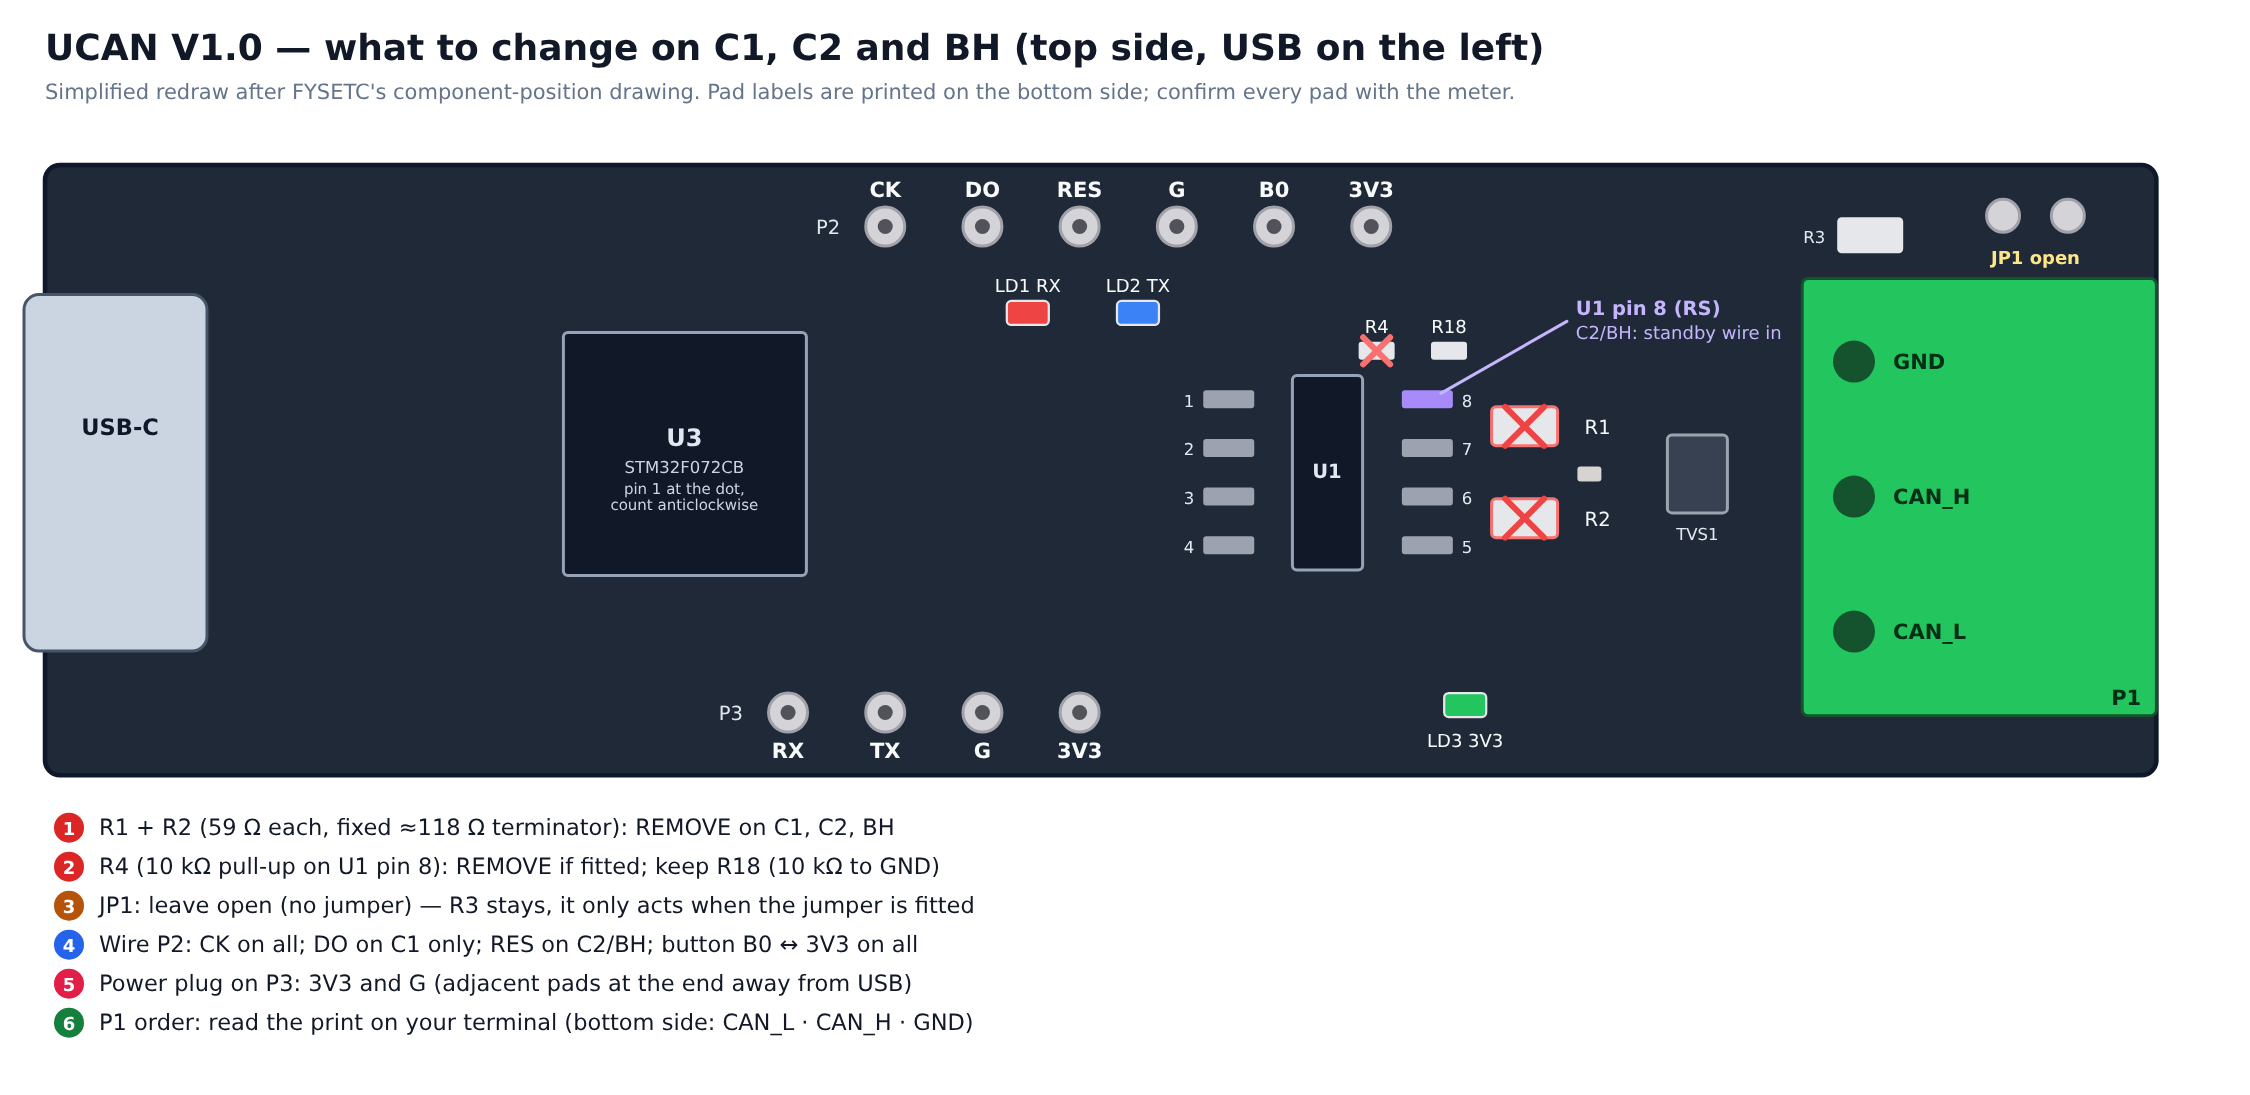
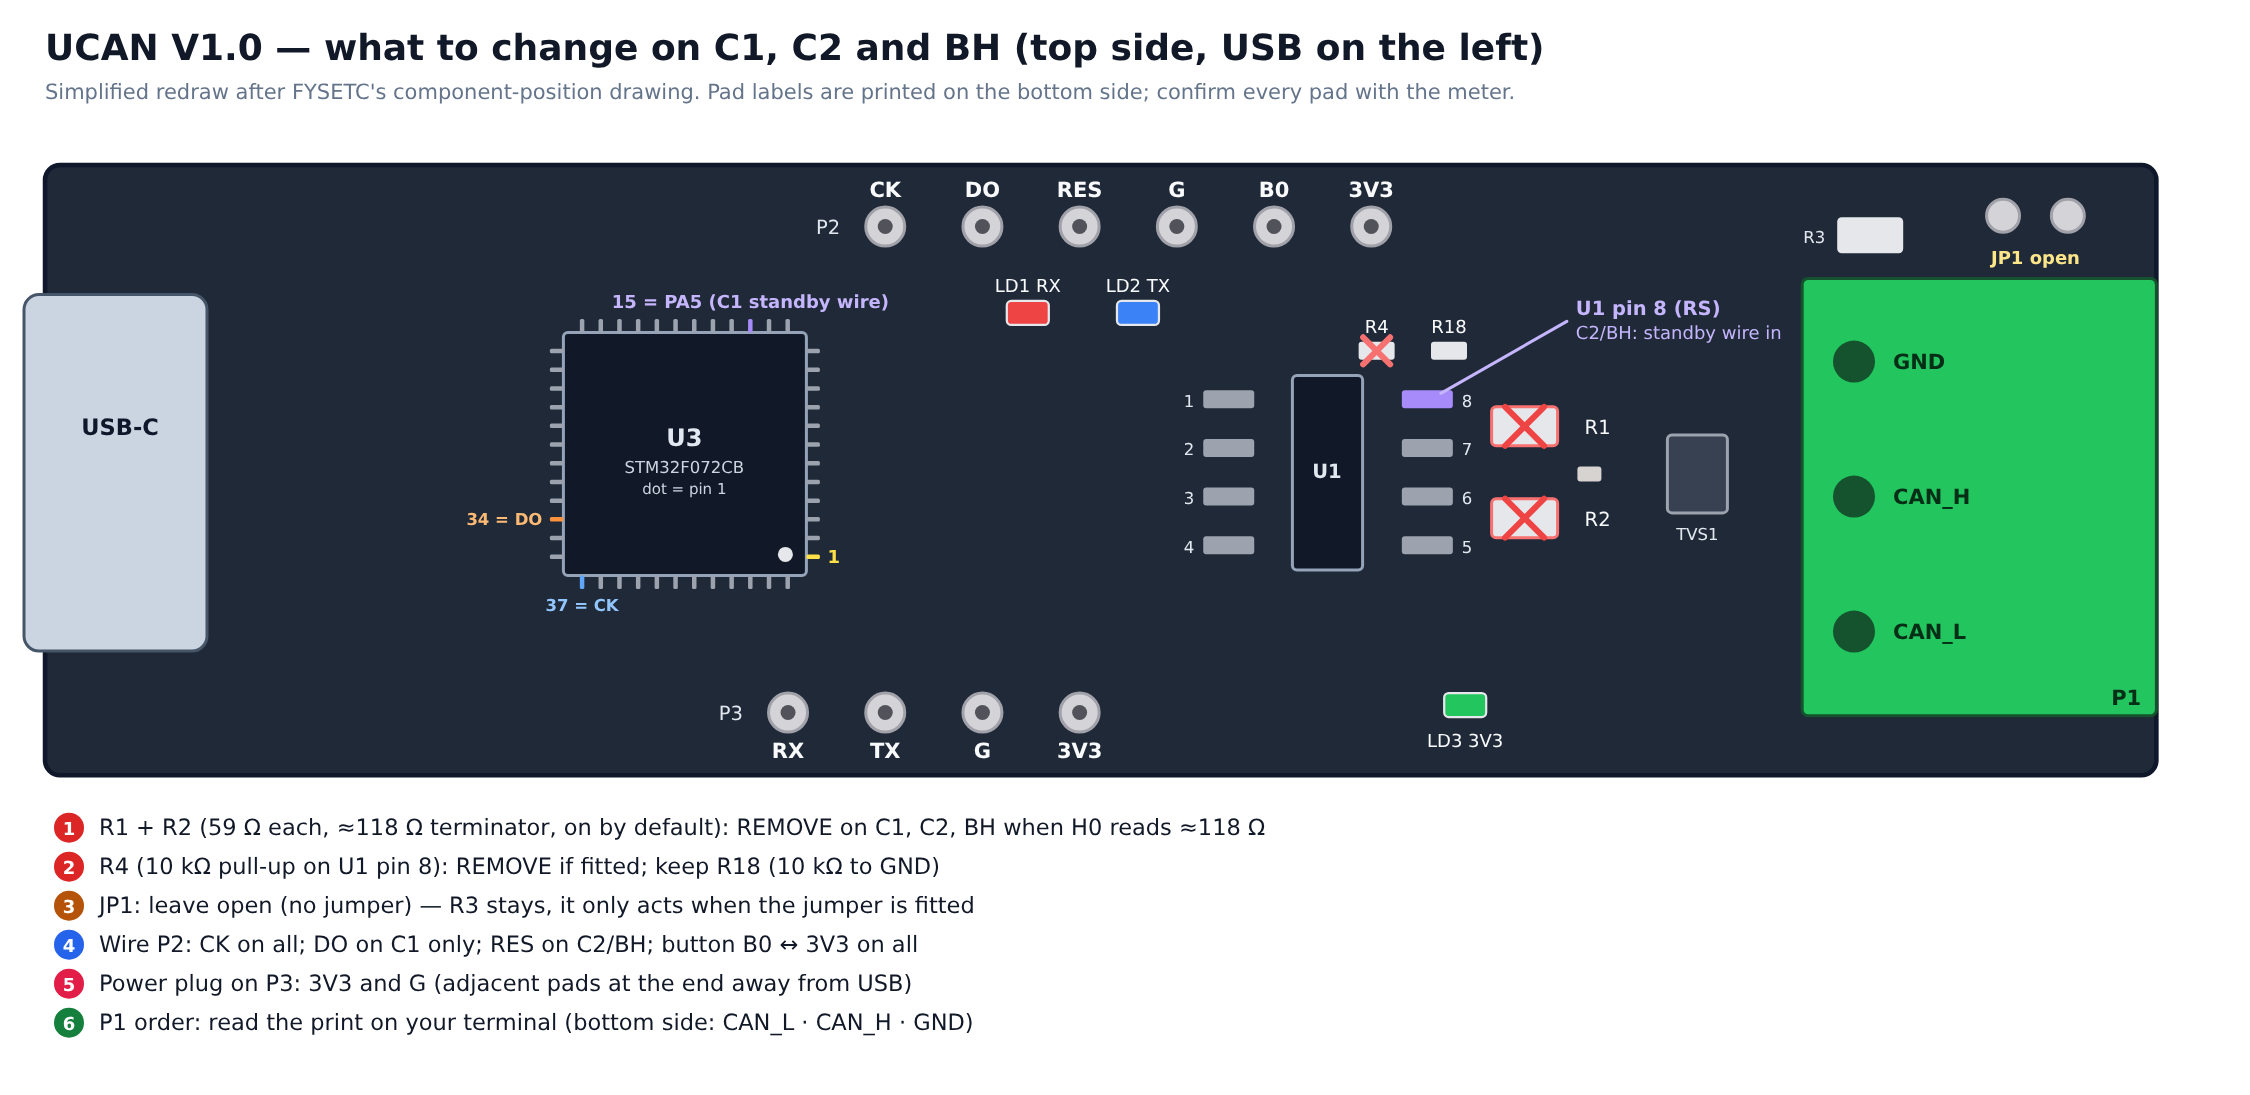
Plan v4.8: align with FYSETC's UCAN repository
Quote the FYSETC README (termination on by default, candleLight V1 pin
assignment, header roles), add an H0 decision rule for the termination
header, and locate C1's pin 15 (PA5) from the chip's pin-1 dot in
FYSETC's render, with continuity checks to confirm it.

Claude-Session: https://claude.ai/code/session_01AsqY26JJaNYiwGumCMsUSo

diff --git a/docs/images/src/make_diagrams.py b/docs/images/src/make_diagrams.py
@@ -277,8 +277,23 @@ def board_prep():
     s.rect(cx, cy, 225 * k, 225 * k, fill="#111827", stroke="#94a3b8", sw=2, rx=3)
     s.text(cx + 112 * k, cy + 105 * k, "U3", 16, "#e2e8f0", anchor="middle", weight="bold")
     s.text(cx + 112 * k, cy + 130 * k, "STM32F072CB", 11, "#cbd5e1", anchor="middle")
-    s.text(cx + 112 * k, cy + 150 * k, "pin 1 at the dot,", 10, "#cbd5e1", anchor="middle")
-    s.text(cx + 112 * k, cy + 164 * k, "count anticlockwise", 10, "#cbd5e1", anchor="middle")
+    # LQFP48 pins: 12 per side, pin 1 next to the dot in the bottom-right corner (FYSETC render)
+    side = 225 * k
+    step = side / 13
+    for i in range(12):
+        t = (i + 1) * step
+        col_top = "#a78bfa" if i == 2 else "#9ca3af"          # top side right->left = pins 13..24
+        s.rect(cx + side - t - 1.5, cy - 9, 3, 9, fill=col_top, rx=1)
+        s.rect(cx + t - 1.5, cy + side, 3, 9, fill="#60a5fa" if i == 0 else "#9ca3af", rx=1)
+        s.rect(cx - 9, cy + t - 1.5, 9, 3, fill="#fb923c" if i == 9 else "#9ca3af", rx=1)
+        s.rect(cx + side, cy + side - t - 1.5, 9, 3, fill="#fde047" if i == 0 else "#9ca3af", rx=1)
+    s.circle(cx + side - 14, cy + side - 14, 5, "#e5e7eb")
+    s.text(cx + side + 14, cy + side - 8, "1", 12, "#fde047", weight="bold")
+    p15x = cx + side - 3 * step
+    s.text(p15x, cy - 16, "15 = PA5 (C1 standby wire)", 12, "#c4b5fd", anchor="middle", weight="bold")
+    s.text(cx - 14, cy + 10 * step + 4, "34 = DO", 11, "#fdba74", anchor="end", weight="bold")
+    s.text(cx + step, cy + side + 24, "37 = CK", 11, "#93c5fd", anchor="middle", weight="bold")
+    s.text(cx + 112 * k, cy + 150 * k, "dot = pin 1", 10, "#cbd5e1", anchor="middle")
     # P2 (top row) and P3 (bottom row)
     for i, lab in enumerate(["CK", "DO", "RES", "G", "B0", "3V3"]):
         x, y = P(803 + i * 90, 482)
@@ -351,7 +366,7 @@ def board_prep():
     # callouts (below the board)
     by = y1 + 40
     notes = [
-        ("1", "R1 + R2 (59 Ω each, fixed ≈118 Ω terminator): REMOVE on C1, C2, BH", C["remove"]),
+        ("1", "R1 + R2 (59 Ω each, ≈118 Ω terminator, on by default): REMOVE on C1, C2, BH when H0 reads ≈118 Ω", C["remove"]),
         ("2", "R4 (10 kΩ pull-up on U1 pin 8): REMOVE if fitted; keep R18 (10 kΩ to GND)", C["remove"]),
         ("3", "JP1: leave open (no jumper) — R3 stays, it only acts when the jumper is fitted", "#b45309"),
         ("4", "Wire P2: CK on all; DO on C1 only; RES on C2/BH; button B0 ↔ 3V3 on all", C["serial"]),

diff --git a/docs/BACCAble_Giulia_Q4_Full_Plan.md b/docs/BACCAble_Giulia_Q4_Full_Plan.md
@@ -1,4 +1,4 @@
-# DIY BACCAble — Full Plan, Build Steps and Firmware (v4.7)
+# DIY BACCAble — Full Plan, Build Steps and Firmware (v4.8)
 
 **Mission:** build our own BACCAble from loose boards instead of buying the author's ready-made device, and make it **behave the same as the author's device in every way except the WS281x LED strip** (not built, not wired, left disabled).
 **Build:** the **full BACCAble — three UCAN boards, C1 + C2 + BH**, one per CAN bus, exactly like the three chips on the author's PCB. This is **not** the two-board (C1 + BH) minimalist/test setup: every board, wire and step below is for three boards, and wherever a repo picture shows only one or two UCANs it is used only as a pad/label/mounting reference.
@@ -63,7 +63,23 @@ The author's own OBD plug pinout (what his PCB uses on each pin — we only use 
 *Source: `hardware/newBaccableDedicatedPcb/pinout.png` (also manual page 5). CMD1–3, STS1–3 and LED CTRL are the author's extra I/O (§10); not used here.*
 
 ### 2.2 The UCAN board, part by part (board maker's schematic)
-The repo only shows the UCAN in pictures, so this map comes from the board maker's own drawings: FYSETC `UCAN V1.0 SCH.pdf` and `UCAN V1.0 Component Position.pdf` (https://github.com/FYSETC/UCAN/tree/main/Hardware). It agrees with the repo's pictures and the firmware's pin use. [FYSETC][Repo]
+**Our board is the one the author uses:** the FYSETC UCAN sold at https://www.fysetc.com/products/fysetc-ucan-board, documented in FYSETC's open-source repository https://github.com/FYSETC/UCAN. That repository holds only:
+- the README, with a top-view render;
+- `Hardware/UCAN V1.0 SCH.pdf` and `Hardware/UCAN V1.0 Component Position.pdf`;
+- a STEP model.
+
+What its README says, and how it fits the build:
+
+| FYSETC README says | Meaning for us |
+|---|---|
+| STM32F072, candleLight firmware | same chip family the BACCAble README asks for |
+| "Compatible with candleLight V1 hardware pin assignment" | LEDs on PA0/PA1 and CAN on PB8/PB9, as the BACCAble firmware expects; the BACCAble README lists candleLight among the compatible boards |
+| "3-pin screw plug terminal: CANH, CANL, GND" | the order of the README's text only: the schematic gives P1 pin 1 = CAN_L, pin 2 = CAN_H, pin 3 = GND, and the silkscreen in the repo's photo reads CAN_L · CAN_H · GND. **Go by the print on your board** |
+| "Headers to enter bootloader … and SWD interface" | the P2 row (B0, 3V3, CK = SWCLK, DO = SWDIO, RES, G) |
+| "Headers to CAN interface before transceiver" | the P3 row (RX, TX, G, 3V3): not used |
+| "Headers to enable/disable termination, **On-board termination resistors (2 x 59R) are used by default**" | **every UCAN arrives terminated**, which is what §6 removes |
+
+The board details below come from FYSETC's schematic and component-position drawing. They agree with the repo's pictures and the firmware's pin use. [FYSETC][Repo]
 
 | Ref | What it is | What we do with it |
 |---|---|---|
@@ -83,7 +99,16 @@ The repo only shows the UCAN in pictures, so this map comes from the board maker
 
 The C1 / C2 / BH firmware never touches **PC13** (no GPIOC code in the fork), so on C2 and BH the transceiver's pin 8 is free for the author's standby line. [Repo]
 
-**Identify every pad with the meter before soldering** (board unpowered, continuity/beep mode). Don't rely only on silkscreen read from photos. On the LQFP48 chip, pin 1 is at the dot; count anticlockwise, 12 pins per side. On U1 (8 pins), pin 1 is at the dot or chamfer; pin 8 is beside pin 1 on the other row, on the side facing the green terminal, closest to R4/R18.
+**Identify every pad with the meter before soldering** (board unpowered, continuity/beep mode). Don't rely only on silkscreen read from photos. On the LQFP48 chip, pin 1 is at the dot; count anticlockwise, 12 pins per side.
+
+**Where the dot is:** in FYSETC's README render (USB on the left, terminal on the right), the dot is in the chip's **bottom-right** corner. [FYSETC][Infer]
+- Pin 1 is the lowest pin of the chip's right-hand side.
+- Pins 1–12 run up the right side.
+- Pins 13–24 run right to left along the top side.
+- Pins 25–36 run down the left side.
+- Pins 37–48 run left to right along the bottom side.
+
+So **PA5 = pin 15 is the 3rd pin from the right on the top side** (PA4 = pin 14 is the 2nd). **Confirm the orientation before soldering:** pin 37 (bottom side, leftmost) must beep to **CK**, and pin 34 (left side, 3rd from the bottom) to **DO**. On U1 (8 pins), pin 1 is at the dot or chamfer; pin 8 is beside pin 1 on the other row, on the side facing the green terminal, closest to R4/R18.
 
 | Pad | Must beep to |
 |---|---|
@@ -340,7 +365,7 @@ Rules for every option: **never put 12 V on a UCAN**; one common ground; C2/BH s
 ### 5.2 Standby line (author's PA5) — no firmware change needed
 - The firmware **already drives PA5 exactly as the author's**: push-pull output, **low = slave transceivers active** (set at start-up and on every wake), **high = standby** (set when C1 goes to sleep). Our flag only moved the reset line; PA5 is untouched. [Repo: `lowConsume.c`]
 - On the author's PCB PA5 runs to the **RS pin (pin 8)** of the C2 and BH transceivers (schematic sheets 3/4, `CanLowConsumeCmd`, one 10 kΩ pull-down R27 drawn on the C2 sheet). On a UCAN the transceiver's standby/silent pin (**pin 8, "S"/"RS"**) is wired to that board's own **PC13** (GiUCAN calls it `CAN_S`, "can silent pin"); the BACCAble C2/BH firmware **never drives PC13**, so an external line can control it without a conflict. [Repo][GiUCAN]
-- **Wiring:** one thin wire (30 AWG wire-wrap or enamelled) from **C1's chip pin 15 = PA5** (LQFP48 numbering from the MKS CANable schematic in the repo: PA4 = 14, PA5 = 15) to **pin 8 of the CAN transceiver** (the 8-pin chip next to the green terminal) on **C2** and on **BH**. Pin 15 is on the 0.5 mm-pitch side of the chip: use flux, a fine tip, and check with a loupe that pins 14/16 are not bridged.
+- **Wiring:** one thin wire (30 AWG wire-wrap or enamelled) from **C1's chip pin 15 = PA5** (LQFP48 numbering from the MKS CANable schematic in the repo: PA4 = 14, PA5 = 15) to **pin 8 of the CAN transceiver** (the 8-pin chip next to the green terminal) on **C2** and on **BH**. Pin 15 is the 3rd pin from the right on the chip's top side (USB on the left; how to confirm it: §2.2). The pitch is 0.5 mm: use flux and a fine tip, and check with a loupe that pins 14/16 are not bridged.
 - **Before soldering, identify pin 8 on your boards:** pin 1 is marked by the dot; pin 8 is the pin beside pin 1 on the opposite row. Confirm with the multimeter: **continuity between transceiver pin 8 and the board's chip pin 2 (PC13)**. If there is no continuity, stop and re-check (the board differs from GiUCAN's). [Infer]
 - **Result:** during sleep the slaves are held in reset **and** their transceivers are in standby/silent mode — the author's exact behaviour and the lowest sleep current. At start-up, before C1's firmware sets PA5, the line is held low by each slave's own **R18 10 kΩ to GND** (R4 removed in H1, §2.2), so the transceivers stay active, as with the author's R27 pull-down. Even if R4 were left in, the line would sit at about half the supply, still below the SN65HVD230's standby threshold (≈ 0.75 × 3.3 V). Load on PA5: ≈ 0.33 mA per slave, well within the pin's rating. [FYSETC][Infer]
 - *Optional, fully pin-identical variant:* also take the reset line from C1's chip **pin 14 (PA4)** instead of the DO pad and build C1 **without** `-DUCAN_LOW_CONSUME_PINS` (the author's stock pins). Same behaviour, but one more fine-pitch joint next to pin 15; the DO-pad route is the easier one.
@@ -358,9 +383,15 @@ Rules for every option: **never put 12 V on a UCAN**; one common ground; C2/BH s
 
 The car buses are already terminated (≈ 60 Ω each), and the author's PCB adds **no** terminator (his diagrams say "TERMINATION NOT INSERTED"). So no board of ours may add one. [Repo]
 
-**What a UCAN has** (FYSETC schematic, §2.2): [FYSETC]
-- **R1 + R2 = 59 Ω + 59 Ω in series across CAN_H–CAN_L (≈ 118 Ω).** This is permanently connected, and the 2-pin header does **not** switch it off.
-- The header **JP1** only adds a **second** terminator (R3 120 Ω) when a jumper is fitted.
+**What a UCAN has** (FYSETC, §2.2): [FYSETC]
+- **README:** "On-board termination resistors (2 x 59R) are used by default", so the board ships terminated.
+- **Schematic:** **R1 + R2 = 59 Ω + 59 Ω in series across CAN_H–CAN_L (≈ 118 Ω)**, permanently connected.
+- **The header JP1:** the README calls it "enable/disable termination", but the schematic shows it adds a **second** terminator (R3 120 Ω) when a jumper is fitted.
+
+**Your H0 measurement decides which description your boards follow** (unpowered, no jumper on JP1, meter across CAN_H–CAN_L on P1):
+- **≈ 118 Ω:** R1 + R2 are hard-wired, as in the schematic. Do steps 1–4 below.
+- **Open (tens of kΩ or more):** the header controls the terminator and it is already off. Remove nothing, and just keep JP1 open.
+- **≈ 60 Ω:** a jumper is on JP1. Take it off and measure again.
 
 Left as delivered, each of our boards would put ≈ 118 Ω on its bus. 60 Ω ∥ 118 Ω ≈ 40 Ω on every bus, which risks bus errors and warning lights.
 
@@ -386,8 +417,8 @@ The author's older single-CANable diagram is where "TERMINATION NOT INSERTED" co
 
 | Step | Action | Pass when |
 |---|---|---|
-| **H0** | Inspect every board: chip marking **STM32F072CB**, transceiver **SN65HVD230** (or 230-compatible); label C1, C2, BH, SPARE. Unpowered, JP1 open: measure CAN_H↔CAN_L on P1. Identify every pad with the continuity table in §2.2. Check whether **R4** is fitted (resistor beside R18; or, powered from USB, U1 pin 8 reads ≈ 1.6 V instead of ≈ 0 V). | ≈ 118 Ω (the fixed R1 + R2); every pad beeps to the chip pin listed; R4 noted |
-| **H1** | **Remove R1 and R2** on C1, C2, BH (and the spare if it will sniff the car) — §6; practise on the spare. Keep JP1 open. **If R4 is fitted, remove it** on C1, C2, BH, so each RS pin has only R18 10 kΩ to GND, as on the author's PCB. | CAN_H↔CAN_L ≫ 1 kΩ on each board; U1 pin 8 ↔ G ≈ 10 kΩ; no solder bridges near U1/P1 |
+| **H0** | Inspect every board: chip marking **STM32F072CB**, transceiver **SN65HVD230** (or 230-compatible); label C1, C2, BH, SPARE. Unpowered, JP1 open: measure CAN_H↔CAN_L on P1. Identify every pad with the continuity table in §2.2. Check whether **R4** is fitted (resistor beside R18; or, powered from USB, U1 pin 8 reads ≈ 1.6 V instead of ≈ 0 V). | ≈ 118 Ω (the fixed R1 + R2, FYSETC's "used by default"); if a jumper sits on JP1, take it off first; every pad beeps to the chip pin listed; R4 noted |
+| **H1** | **Remove R1 and R2** (when H0 read ≈ 118 Ω) on C1, C2, BH (and the spare if it will sniff the car) — §6; practise on the spare. Keep JP1 open. **If R4 is fitted, remove it** on C1, C2, BH, so each RS pin has only R18 10 kΩ to GND, as on the author's PCB. | CAN_H↔CAN_L ≫ 1 kΩ on each board; U1 pin 8 ↔ G ≈ 10 kΩ; no solder bridges near U1/P1 |
 | **H2** | Flash check comes in S1 (needs USB). On every board: wire or header the P2 pads **CK, B0, 3V3** and the P3 pads **3V3, G**. On C1 add **DO**, on C2/BH add **RES**. Fit the boot button **B0 ↔ P2 3V3** on each board (W18–W20, §2.3.4). | pads clean, no bridges; button pressed = B0 beeps to 3V3 |
 | **H3** | **Serial wire:** C1.CK ↔ C2.CK ↔ BH.CK. | continuity CK-CK-CK, no short to G/3V3 |
 | **H4** | **Reset wire:** C1.DO ↔ C2.RES and C1.DO ↔ BH.RES. **Standby wire (§5.2):** first check continuity *transceiver pin 8 ↔ chip pin 2* on C2 and BH, then wire C1 chip pin 15 (PA5) → transceiver pin 8 of C2 and of BH; check pins 14/16 of C1 are not bridged. *(Leave unplugged until the slaves are flashed — §5 bench gotcha.)* | continuity, no short |
@@ -542,4 +573,4 @@ ESC/TC and the race screen need race mode enabled by **proxy alignment** (manual
 4. Standby wire on your boards: transceiver pin 8 ↔ chip pin 2 continuity (H4) and ≈ 0 V awake / ≈ 3.3 V asleep (S4); bus recessive while asleep (S4 voltmeter check).
 
 ## Sources (all in or linked from this fork)
-FYSETC UCAN V1.0 schematic and component position (https://github.com/FYSETC/UCAN/tree/main/Hardware) · diagrams drawn for this plan: `docs/images/src/make_diagrams.py` (+ `render.js` → PNG) · `README.md`, `LICENSE.MD`, `manuals/Baccable_manual_*.pdf` (v4.9), `hardware/newBaccableDedicatedPcb/*`, `hardware/system_interconnection/*`, `hardware/canable/*` (MKS schematics, STM32F072 datasheet), `hardware/box/*`, `firmware/ledsStripController/{Core,Makefile,MAKEFILE.md,*.ld,baccable.ioc,.cproject}`, `.github/workflows/*`, `tools/*.xlsx` · GiUCAN https://github.com/anegrin/GiUCAN · canable-fw https://github.com/normaldotcom/canable-fw · PIDs https://github.com/danardi78/Alfaromeo-Giulia-Stelvio-PIDs · upstream issue #34 (author on power and three boards).
+FYSETC UCAN V1.0 schematic and component position (https://github.com/FYSETC/UCAN/tree/main/Hardware) · FYSETC UCAN README and render (https://github.com/FYSETC/UCAN), product page https://www.fysetc.com/products/fysetc-ucan-board (not readable from this session) · diagrams drawn for this plan: `docs/images/src/make_diagrams.py` (+ `render.js` → PNG) · `README.md`, `LICENSE.MD`, `manuals/Baccable_manual_*.pdf` (v4.9), `hardware/newBaccableDedicatedPcb/*`, `hardware/system_interconnection/*`, `hardware/canable/*` (MKS schematics, STM32F072 datasheet), `hardware/box/*`, `firmware/ledsStripController/{Core,Makefile,MAKEFILE.md,*.ld,baccable.ioc,.cproject}`, `.github/workflows/*`, `tools/*.xlsx` · GiUCAN https://github.com/anegrin/GiUCAN · canable-fw https://github.com/normaldotcom/canable-fw · PIDs https://github.com/danardi78/Alfaromeo-Giulia-Stelvio-PIDs · upstream issue #34 (author on power and three boards).
